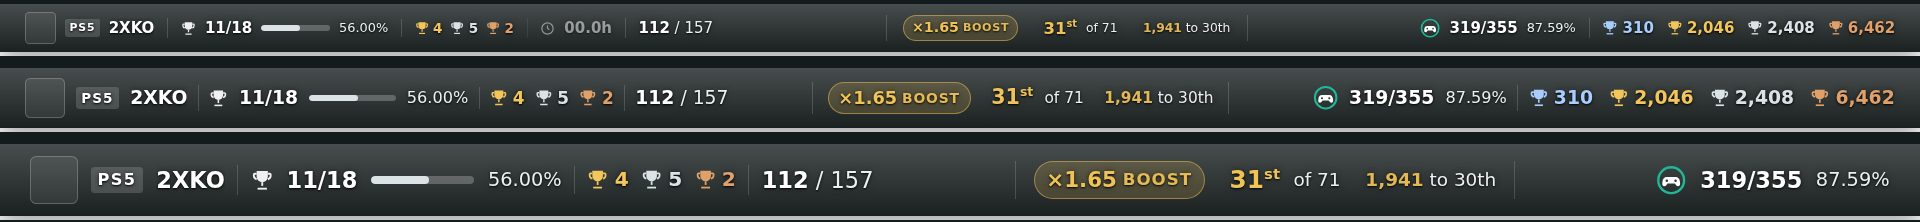
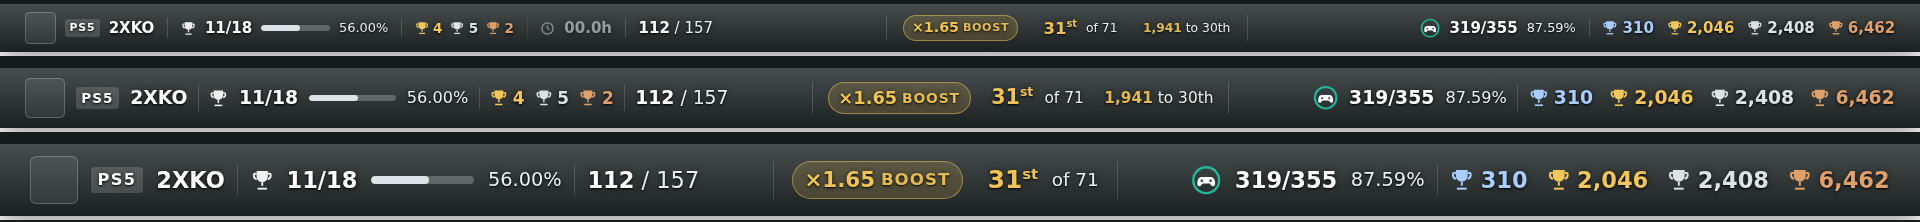
martin
overlay

Changed region(s): [[0.2812, 0.7027, 1.0, 0.9189]]

diff --git a/functions/overlay/[name].js b/functions/overlay/[name].js
@@ -492,19 +492,22 @@ function rightZone(m) {
  * breakpoints, which work in whatever Chromium your OBS happens to ship with
  * rather than only in the ones new enough for container queries.
  *
- * THE ORDER IS A JUDGEMENT AND IS MEANT TO BE ARGUED WITH. It is by value per
- * pixel, not by importance alone:
+ * THE ORDER IS A JUDGEMENT AND IT WAS WRONG FIRST TIME. Value per pixel put the
+ * cabinet third, because it is 319 pixels and the same figures are on the
+ * profile page. Martin, seeing it go: "the trophies need to be on the right
+ * where they were!" The cabinet is the thing a viewer looks at. It is the last
+ * structural drop now, not the third:
  *
- *   1. padding    nobody can see it go
- *   2. the hours  a placeholder for a board that does not exist yet
- *   3. the cabinet 319 pixels, the biggest single thing on the bar, and the one
- *                 fact here that is also on your profile page
- *   4. the title  clamped shorter, never removed
- *   5. game cups  the same four metals sit two segments to the right
- *   6. the chase  the rank beside it carries most of the meaning alone
+ *   1. padding      nobody can see it go
+ *   2. the hours    a placeholder for a board that does not exist yet
+ *   3. game cups    the same three counts sit beside the progress fraction
+ *   4. the chase    the rank next to it carries most of the meaning alone
+ *   5. the title    clamped shorter, never removed
+ *   6. completion   a number, where the cabinet is a picture
+ *   7. the boost    only ever there when it has something to say
+ *   8. the cabinet  last, and only on a canvas nobody streams at
  *
- * Never dropped: the game, the progress, the points, the rank, and the boost
- * chip, which only shows up when it has something to say.
+ * Never dropped: the game, the progress, the game points, and the rank.
  */
 const TITLE_CLAMP = 22;
 const TITLE_SHORT = 14;
@@ -532,13 +535,12 @@ function responsive(scale, { title, mid, chase }) {
   const steps = [
     [90, '.seg{padding:0 .55em}'],
     [98, '.seg.hold{display:none}'],
-    [319, '.seg.s-cab{display:none}'],
+    [126, '.seg.s-gcups{display:none}'],
+    [113, '.seg.s-gap{display:none}'],
     [
       titleWidth(title, TITLE_CLAMP) - titleWidth(title, TITLE_SHORT),
       `.game{max-width:${TITLE_SHORT}ch}`,
     ],
-    [126, '.seg.s-gcups{display:none}'],
-    [113, '.seg.s-gap{display:none}'],
     /**
      * BELOW HERE IS A BAR NOBODY SHOULD BE ASKING FOR: 200 per cent on a 1280
      * canvas is a strip a tenth of the screen tall. It still has to degrade
@@ -547,6 +549,7 @@ function responsive(scale, { title, mid, chase }) {
      */
     [181, '.seg.s-comp{display:none}'],
     [140, '.mult{display:none}'],
+    [319, '.seg.s-cab{display:none}'],
     [
       titleWidth(title, TITLE_SHORT) - titleWidth(title, TITLE_TINY),
       `.game{max-width:${TITLE_TINY}ch}`,
